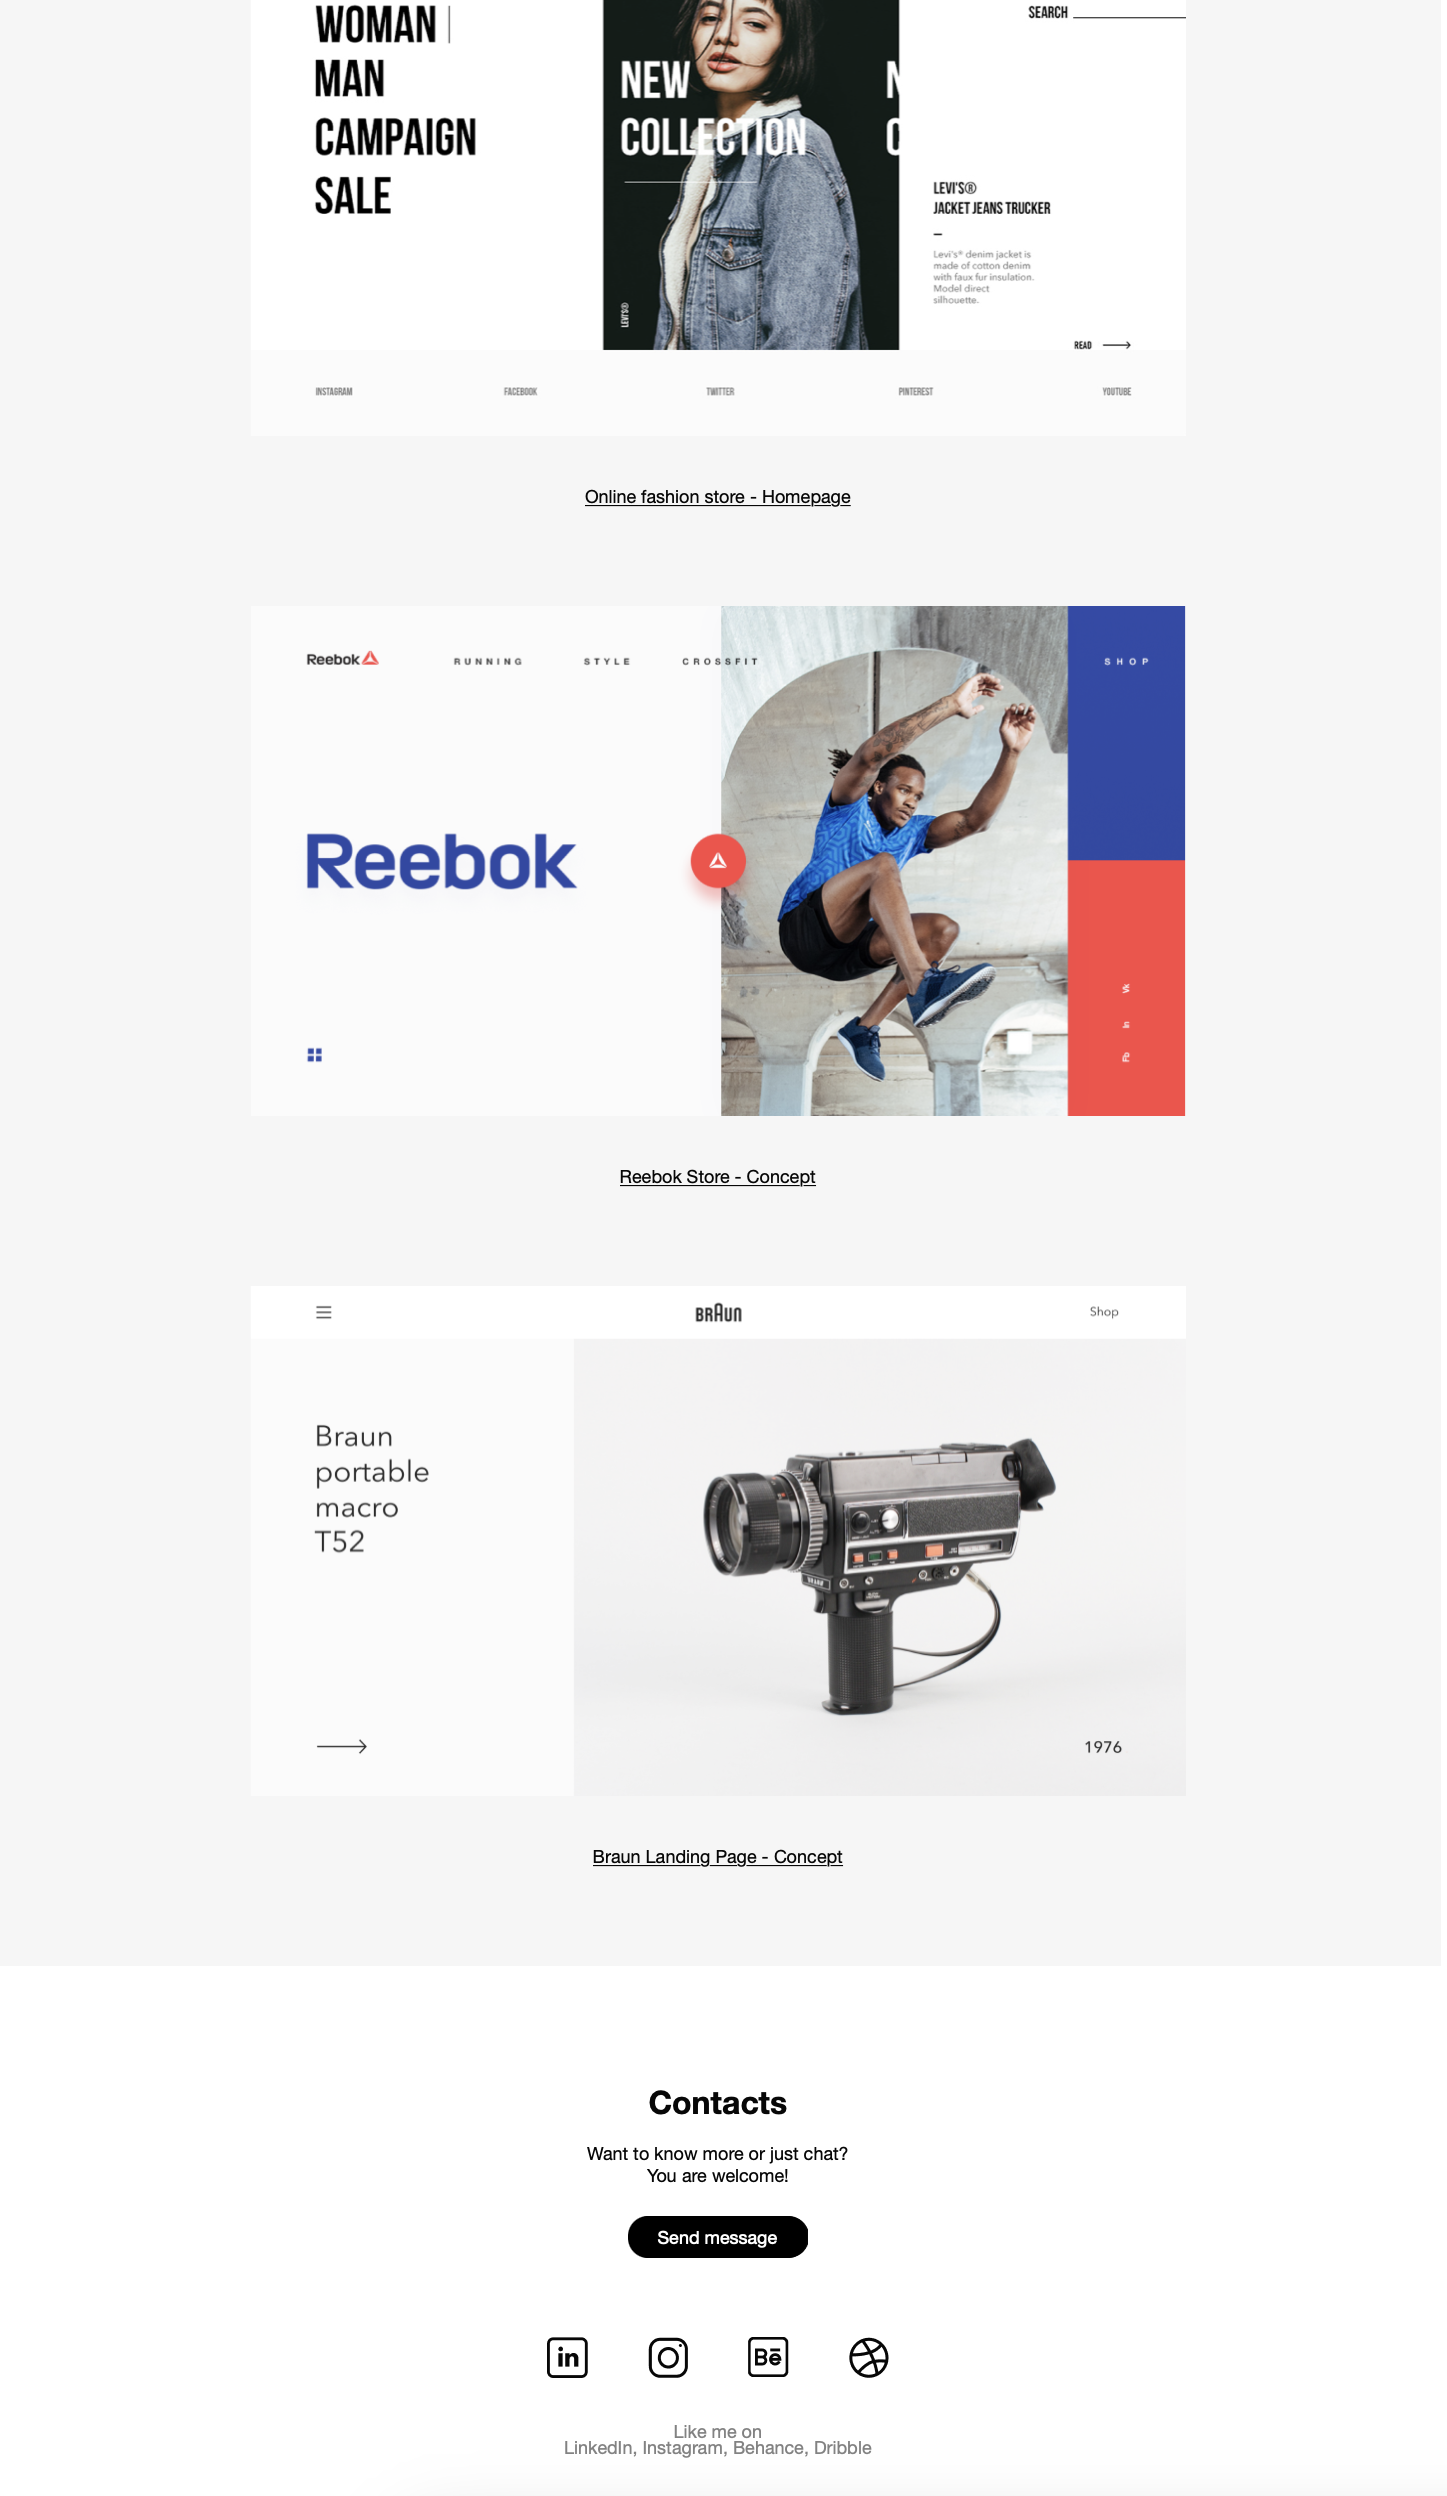
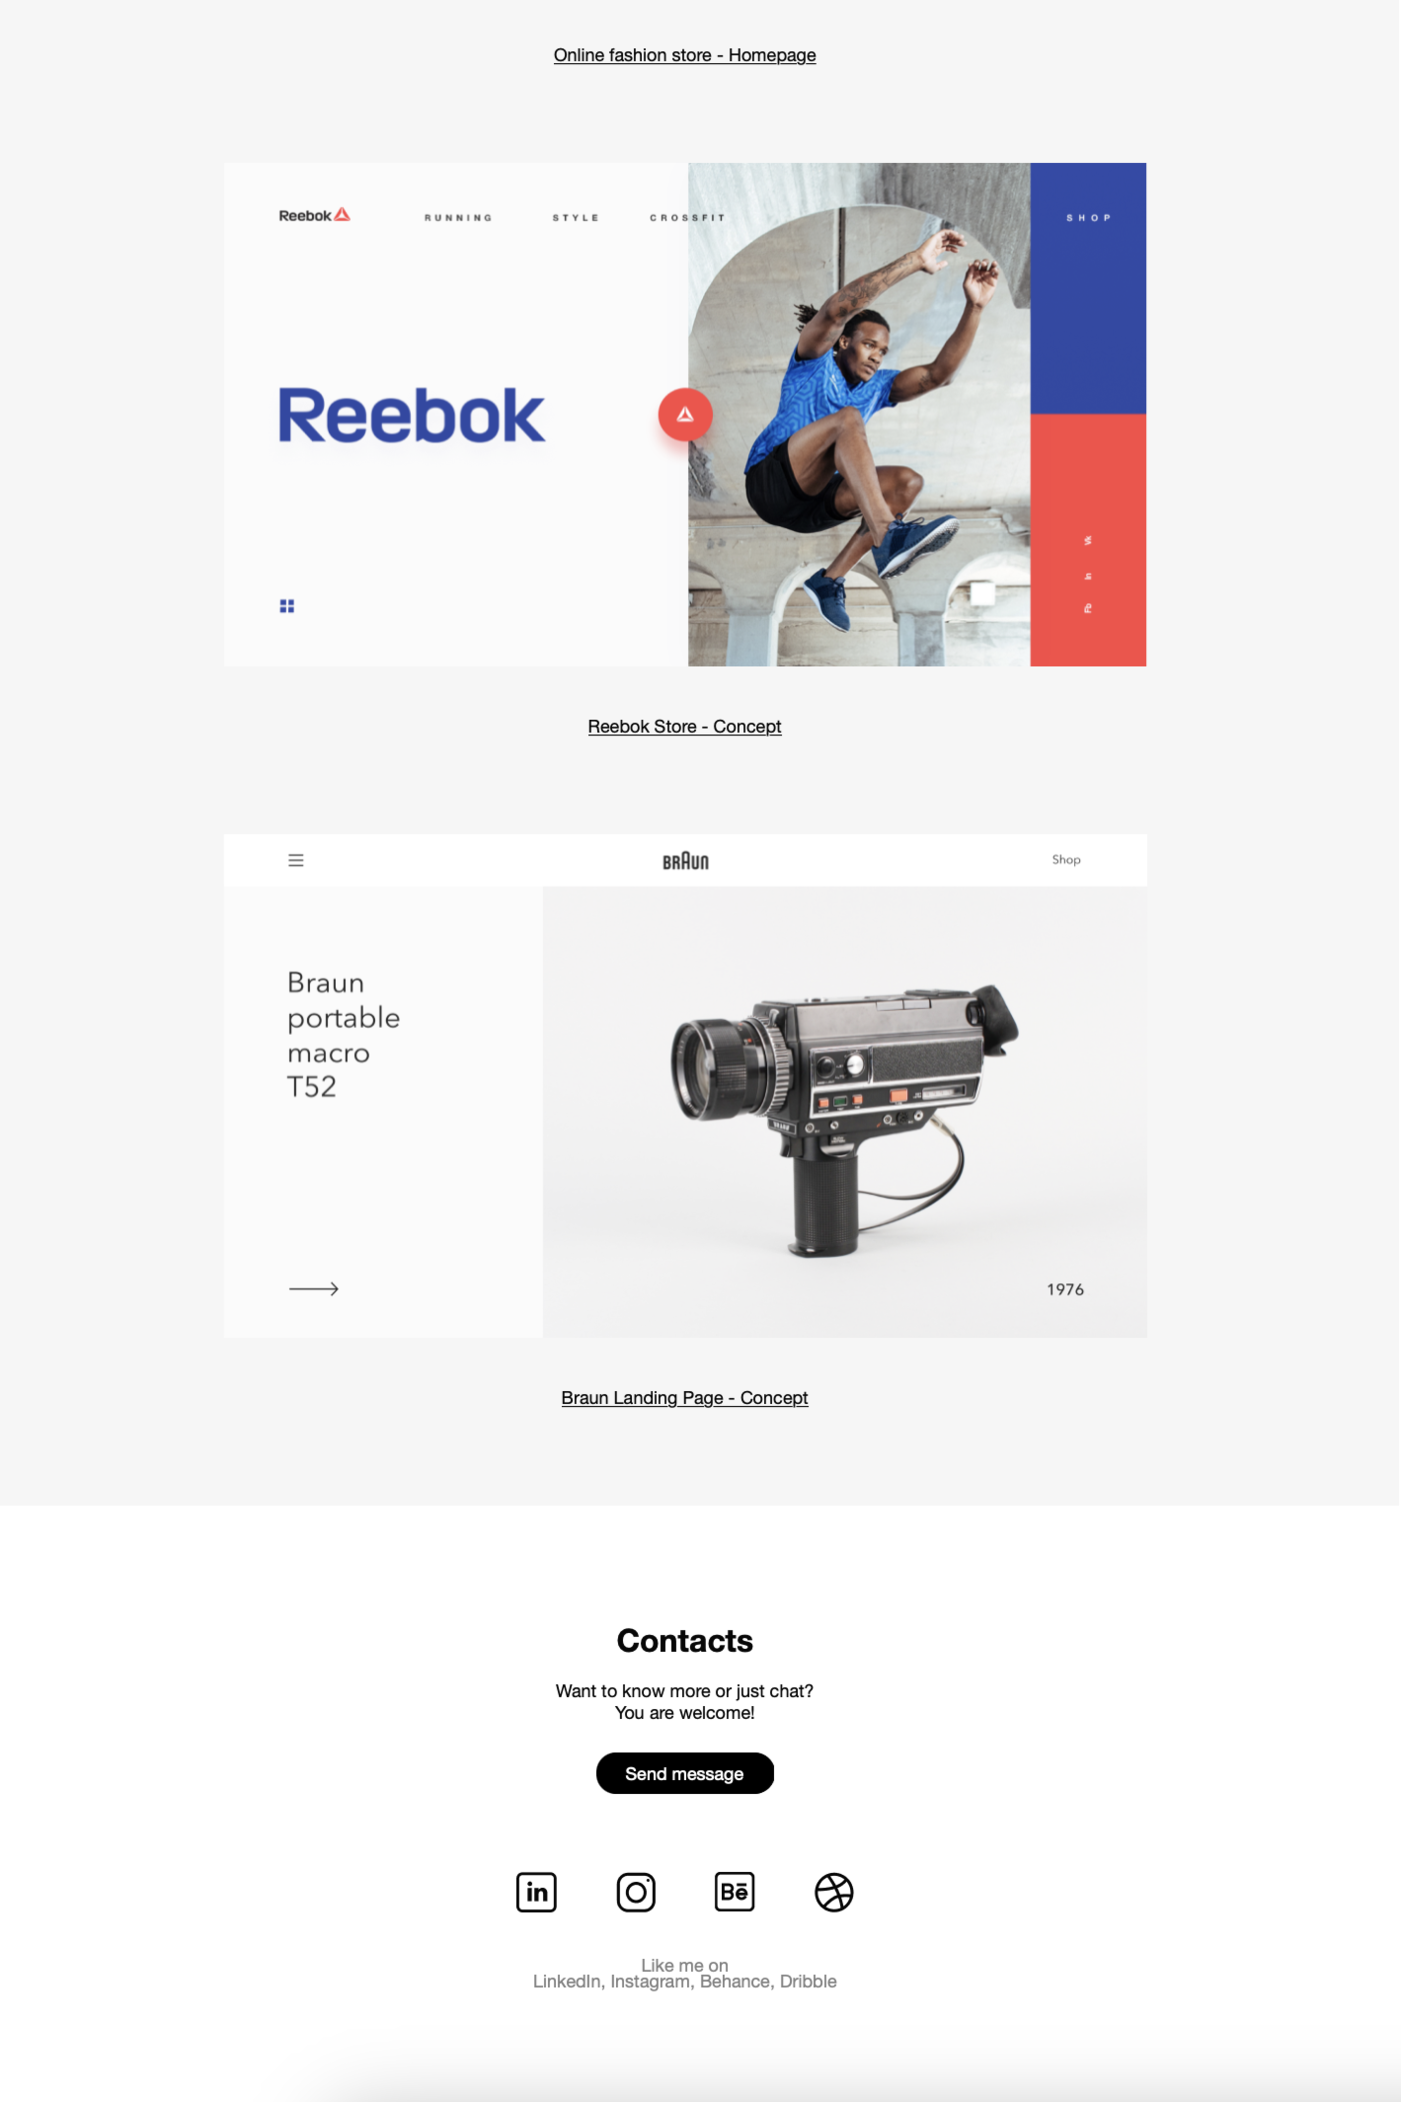
Project illustration changing

diff --git a/README.md b/README.md
@@ -1,4 +1,7 @@
 # Отработка навыков простой верстки HTML, CSS
 
+## Одностраничный сайт-портфолио, пример дизайна взят с _www.figma.com_
+
+
 <image src="/readme_images/top.png" alt="1 part">
 <image src="/readme_images/bottom.png" alt="2 part">
